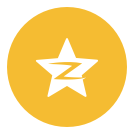
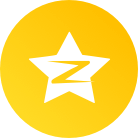
添加operationModal，和platform素材

diff --git a/src/components/modal/notification/OperationModal.tsx b/src/components/modal/notification/OperationModal.tsx
@@ -1,0 +1,251 @@
+import React, { useRef, useState, useEffect, useCallback } from 'react';
+import { StyleSheet, View, Text, Image, Modal, ScrollView } from 'react-native';
+import { authNavigate } from '@src/router';
+import { observer, autorun, adStore, userStore, notificationStore } from '@src/store';
+import Iconfont from '../../../components/Iconfont';
+import { DebouncedPressable } from '../../../components/Basic/DebouncedPressable';
+
+const MODAL_WIDTH = Device.WIDTH * 0.84 > pixel(320) ? pixel(320) : Device.WIDTH * 0.84;
+const BUTTON_WIDTH = MODAL_WIDTH * 0.66;
+const BUTTON_HEIGHT = BUTTON_WIDTH * 0.2;
+
+const sharePlatForm = [
+    {
+        name: '微信好友',
+        image: require('@app/assets/images/share/share_wx.png'),
+        callback: () => null,
+        // callback: shareToWechat,
+    },
+    {
+        name: '朋友圈',
+        image: require('@app/assets/images/share/share_pyq.png'),
+        callback: () => null,
+        // callback: shareToTimeline,
+    },
+    {
+        name: 'QQ好友',
+        image: require('@app/assets/images/share/share_qq.png'),
+        callback: () => null,
+        // callback: shareToQQ,
+    },
+    {
+        name: '微博',
+        image: require('@app/assets/images/share/share_wb.png'),
+        callback: () => null,
+        // callback: shareToWeiBo,
+    },
+    {
+        name: 'QQ空间',
+        image: require('@app/assets/images/share/share_qqz.png'),
+        callback: () => null,
+        // callback: shareToQQZone,
+    },
+];
+
+const options = [
+    {
+        name: '下载',
+        image: require('@app/assets/images/operation/more_video_download.png'),
+        callback: () => null,
+        // callback: downloadVideo,
+    },
+    {
+        name: '复制链接',
+        image: require('@app/assets/images/operation/more_links.png'),
+        callback: () => null,
+        // callback: copyLink,
+    },
+    {
+        name: '分享长图',
+        image: require('@app/assets/images/operation/more_large_img.png'),
+        callback: () => null,
+        // callback: shareCard,
+    },
+    {
+        name: '举报',
+        image: require('@app/assets/images/operation/more_report.png'),
+        callback: () => null,
+        // callback: reportArticle,
+    },
+    {
+        name: '删除',
+        image: require('@app/assets/images/operation/more_delete.png'),
+        callback: () => null,
+        // callback: deleteArticle,
+    },
+    {
+        name: '不感兴趣',
+        image: require('@app/assets/images/operation/more_dislike.png'),
+        callback: () => null,
+        // callback: dislike,
+    },
+    {
+        name: '拉黑',
+        image: require('@app/assets/images/operation/more_shield.png'),
+        callback: () => null,
+        // callback: shield,
+    },
+    {
+        name: '分享合集',
+        image: require('@app/assets/images/operation/more_content.png'),
+        callback: () => null,
+        // callback: shareCollection,
+    },
+];
+
+export const OperationModal = observer(() => {
+    const [visible, setVisible] = useState(false);
+    const [noticeData, setNoticeData] = useState({});
+    const shown = useRef(false);
+
+    const showModal = useCallback((data) => {
+        if (!shown.current) {
+            shown.current = true;
+            setVisible(true);
+            setNoticeData(data);
+        }
+    }, []);
+
+    const hideModal = useCallback(() => {
+        if (shown.current) {
+            notificationStore.reduceOperationNotice();
+            setVisible(false);
+            setNoticeData({});
+            shown.current = false;
+        }
+    }, []);
+
+    useEffect(
+        () =>
+            autorun(() => {
+                if (notificationStore.operationNotice.length > 0) {
+                    showModal(notificationStore.operationNotice[0]);
+                }
+            }),
+        [],
+    );
+
+    return (
+        <Modal
+            animationType="slide"
+            visible={visible}
+            transparent={true}
+            statusBarTranslucent={true}
+            hardwareAccelerated={true}>
+            <View style={styles.modalView}>
+                <DebouncedPressable style={{ flex: 1 }} onPress={hideModal} />
+                <View style={styles.modalContainer}>
+                    {/* <View style={styles.header}>
+                            <Text style={styles.headerText}>取消</Text>
+                        </View> */}
+                    <View style={styles.modalBody}>
+                        <ScrollView
+                            contentContainerStyle={styles.rowContainer}
+                            horizontal={true}
+                            showsHorizontalScrollIndicator={false}>
+                            {sharePlatForm.map((item: any, index: number) => {
+                                return (
+                                    <DebouncedPressable
+                                        key={index}
+                                        style={styles.optionItem}
+                                        onPress={() => {
+                                            hideModal();
+                                            item.callback(noticeData);
+                                        }}>
+                                        <View style={{ margin: pixel(3) }}>
+                                            <Image style={styles.platformIcon} source={item.image} />
+                                        </View>
+                                        <Text style={styles.optionName}>{item.name}</Text>
+                                    </DebouncedPressable>
+                                );
+                            })}
+                        </ScrollView>
+                        <ScrollView
+                            contentContainerStyle={styles.rowContainer}
+                            horizontal={true}
+                            showsHorizontalScrollIndicator={false}>
+                            {options.map((item: any, index: number) => {
+                                return (
+                                    <DebouncedPressable
+                                        key={index}
+                                        style={styles.optionItem}
+                                        onPress={() => {
+                                            hideModal();
+                                            item.callback(noticeData);
+                                        }}>
+                                        <Image style={styles.optionIcon} source={item.image} />
+                                        <Text style={styles.optionName}>{item.name}</Text>
+                                    </DebouncedPressable>
+                                );
+                            })}
+                        </ScrollView>
+                    </View>
+                    <DebouncedPressable style={styles.footer} onPress={hideModal}>
+                        <Text style={styles.footerText}>取消</Text>
+                    </DebouncedPressable>
+                </View>
+            </View>
+        </Modal>
+    );
+});
+
+const styles = StyleSheet.create({
+    modalView: {
+        flex: 1,
+        justifyContent: 'flex-end',
+        backgroundColor: 'rgba(0,0,0,0.3)',
+    },
+    modalContainer: {
+        overflow: 'hidden',
+        backgroundColor: '#fff',
+        borderTopLeftRadius: pixel(12),
+        borderTopRightRadius: pixel(12),
+        paddingBottom: pixel(Theme.HOME_INDICATOR_HEIGHT),
+    },
+    modalBody: {
+        paddingVertical: pixel(12),
+    },
+    header: {
+        alignItems: 'center',
+        paddingVertical: pixel(15),
+        borderTopWidth: StyleSheet.hairlineWidth,
+        borderColor: Theme.borderColor,
+    },
+    headerText: {
+        color: '#212121',
+        fontSize: font(17),
+        fontWeight: 'bold',
+    },
+    rowContainer: {
+        paddingHorizontal: pixel(6),
+    },
+    optionItem: {
+        alignItems: 'center',
+        justifyContent: 'center',
+        minWidth: Device.WIDTH * 0.22,
+        padding: pixel(12),
+    },
+    platformIcon: {
+        height: pixel(50),
+        width: pixel(50),
+    },
+    optionIcon: {
+        height: pixel(56),
+        width: pixel(56),
+    },
+    optionName: {
+        color: '#212121',
+        fontSize: font(12),
+        marginTop: pixel(8),
+    },
+    footer: {
+        alignItems: 'center',
+        paddingVertical: pixel(15),
+        borderTopWidth: StyleSheet.hairlineWidth,
+        borderColor: Theme.borderColor,
+    },
+    footerText: {
+        color: '#212121',
+        fontSize: font(16),
+    },
+});

diff --git a/.eslintrc.js b/.eslintrc.js
@@ -140,7 +140,7 @@ module.exports = {
         'react/jsx-filename-extension': [
             2,
             {
-                extensions: ['.js', '.ts', '.jsx', '.tsx'],
+                extensions: ['.js', '.jsx', '.ts', '.tsx'],
             },
         ],
         'react-hooks/rules-of-hooks': 'error', // Checks rules of Hooks
